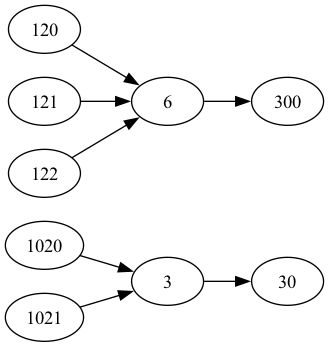
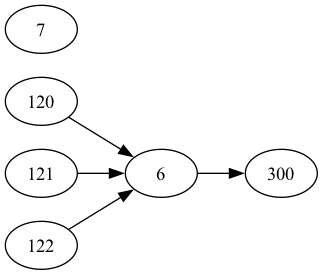
Not plotting nil dependencies

diff --git a/main.rb b/main.rb
@@ -6,15 +6,11 @@ puts 'Loading dependencies'
 
 graph = DependencyGraph.new
 
-graph.add_dependency(ticket: 1020, is_blocking: 3)
-graph.add_dependency(ticket: 1021, is_blocking: 3)
-graph.add_dependency(ticket: 3, is_blocking: 30)
-
 graph.add_dependency(ticket: 120, is_blocking: 6)
 graph.add_dependency(ticket: 121, is_blocking: 6)
 graph.add_dependency(ticket: 122, is_blocking: 6)
 graph.add_dependency(ticket: 6, is_blocking: 300)
-# graph.add_dependency(ticket: 1020, is_blocking: 300)
+graph.add_dependency(ticket: 7, is_blocking: nil)
 
 graph.save_graph(file_name: 'graph.yml')
 # graph = DependencyGraph.new(file_name: 'graph.yml')

diff --git a/lib/dependency.rb b/lib/dependency.rb
@@ -49,13 +49,13 @@ class DependencyGraph
 
     # Create all nodes
     (@graph.keys + @graph.values.flatten).uniq.each do |node|
-      nodes[node] = g.add_nodes(node.to_s)
+      nodes[node] = g.add_nodes(node.to_s) unless node.nil?
     end
 
     # Reverse edges: dependency -> parent
     @graph.each do |parent, dependencies|
       dependencies.each do |dependency|
-        g.add_edges(nodes[dependency], nodes[parent])
+        g.add_edges(nodes[dependency], nodes[parent]) unless parent.nil?
       end
     end
 
